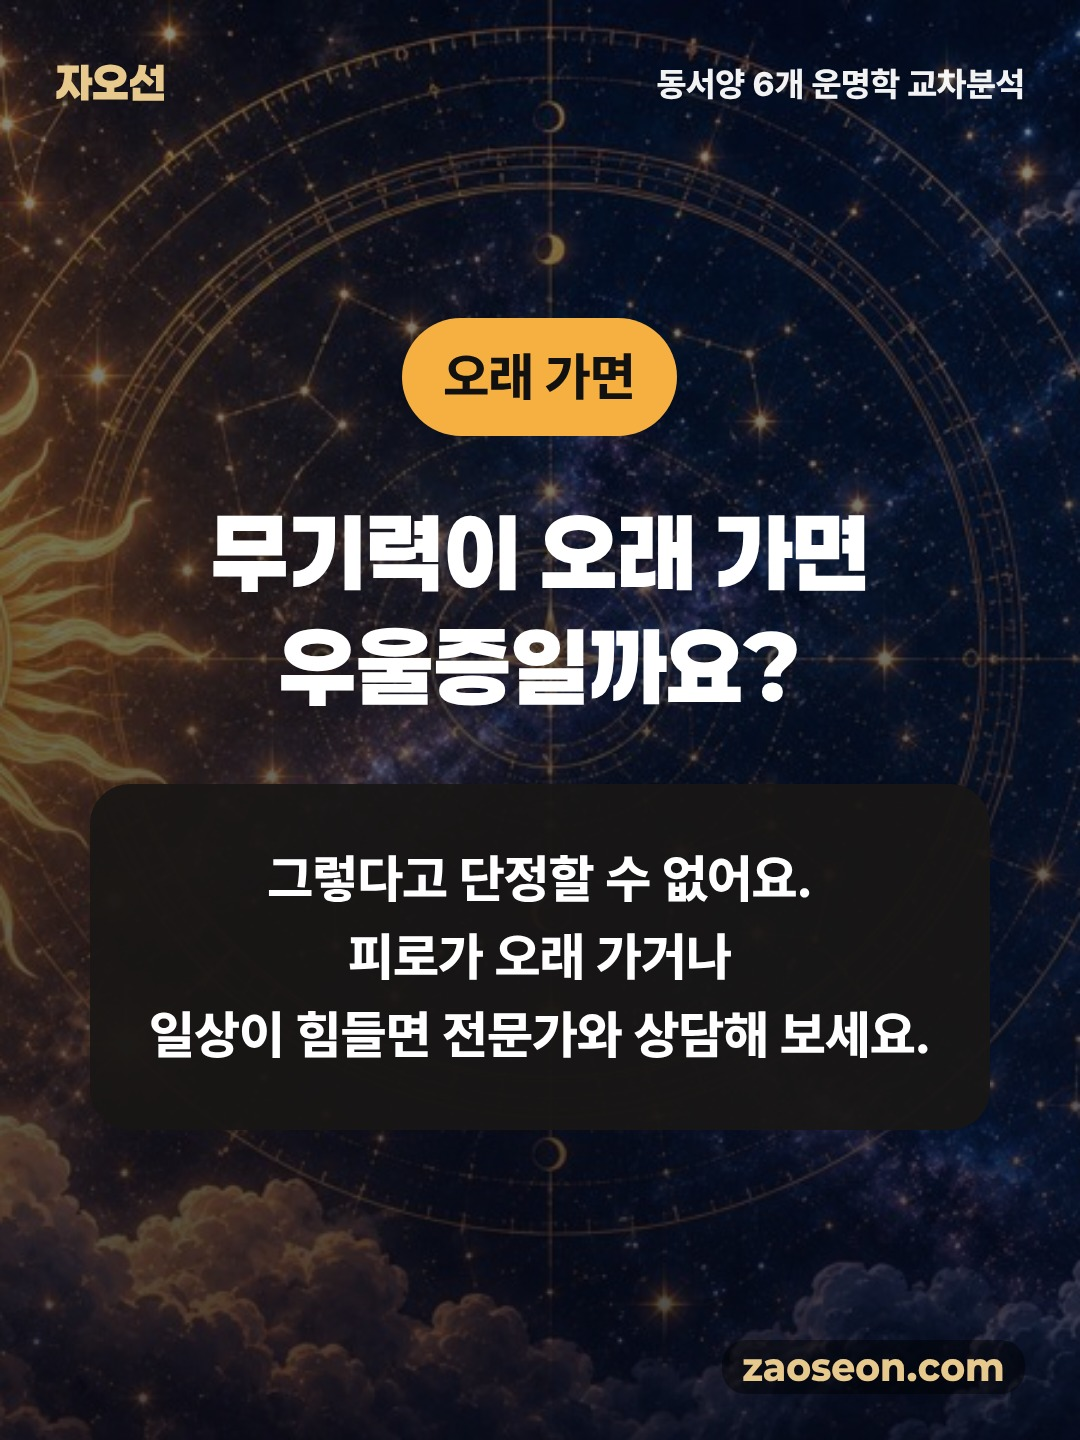
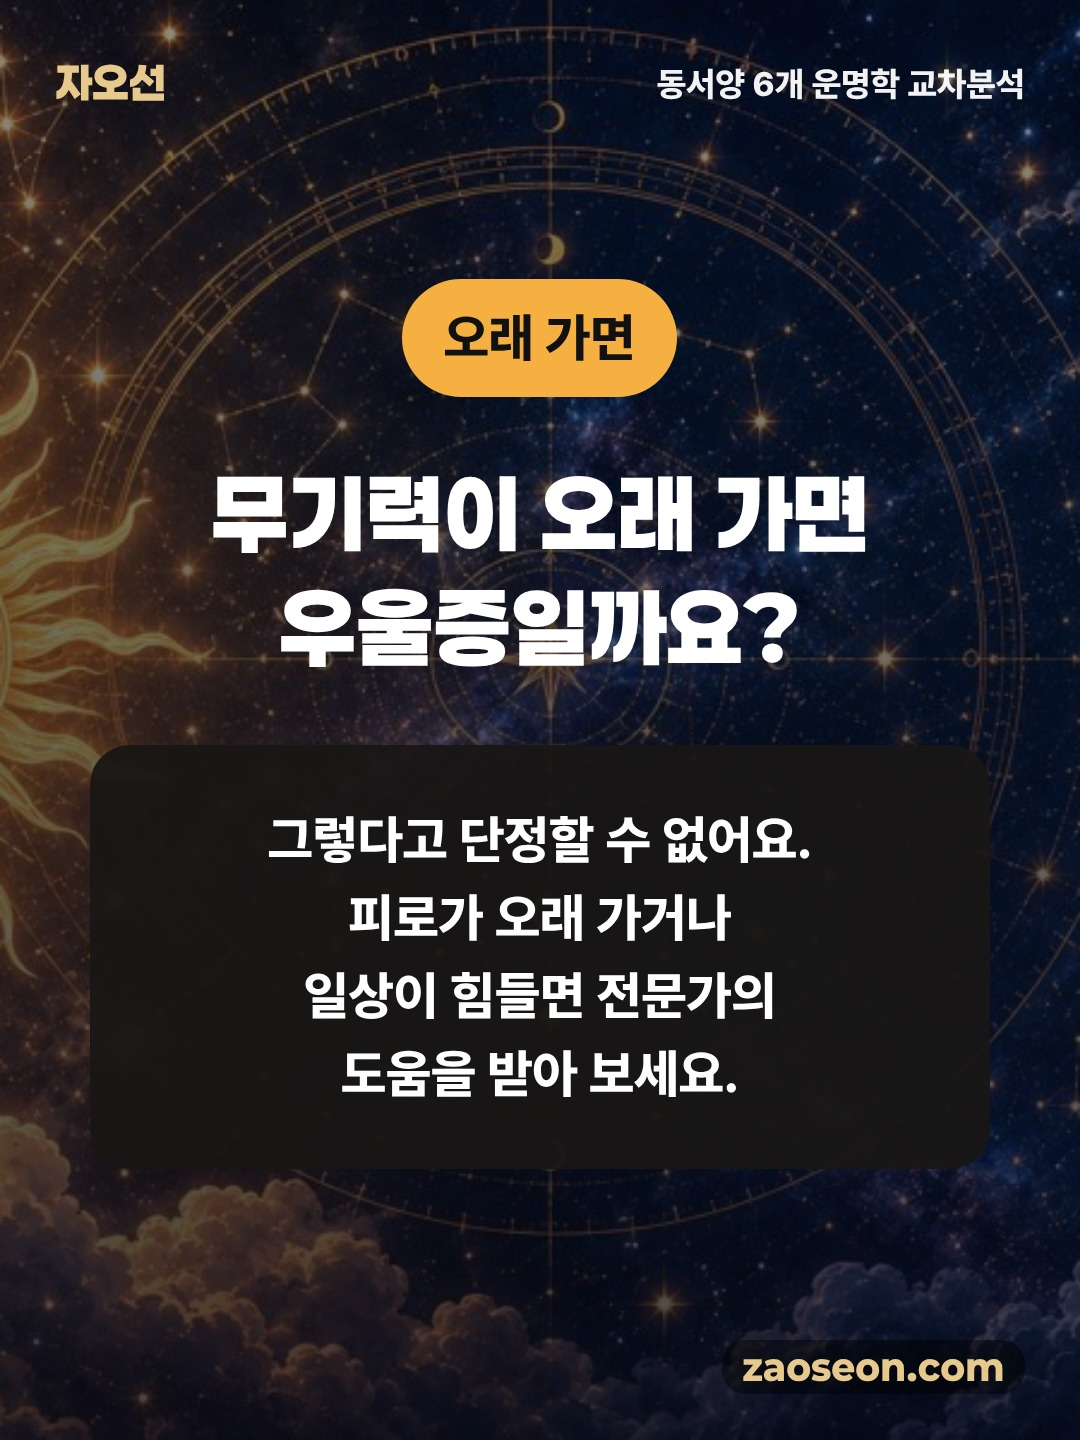
10/30 밤 카드 5번: '전문가와 상담해 보세요' -> '전문가의 도움을 받아 보세요' 다시 렌더
Claude-Session: https://claude.ai/code/session_01JQEc3kdPmogJh4yF5KQxQ1

Changed region(s): [[0.1222, 0.1875, 0.8556, 0.7812], [0.7333, 0.7812, 0.9167, 0.8125], [0.0611, 0.5, 0.1528, 0.5625]]

diff --git a/content/topic_sets_night7.py b/content/topic_sets_night7.py
@@ -57,7 +57,7 @@ SETS = {
    [("방전의 모양은\n세 가지예요", "불은 확 꺼지고\n물은 마음이 소진되고\n흙은 몸이 무거워져요."),
     ("모양대로\n충전해요", "확 꺼지면 짧은 휴식,\n마음이 소진되면 혼자 있는 시간,\n몸이 무거우면 식사와 잠이에요."),
     ("퇴근 뒤 방전은\n열심히 쓴 흔적이에요", "사주는 타고난 방식을,\n별자리는 성향의 방향을 말해요.\n그래서 쉬어도 안 풀리는 피로가 있어요."),
-    ("무기력이 오래 가면\n우울증일까요?", "그렇다고 단정할 수 없어요.\n피로가 오래 가거나\n일상이 힘들면 전문가와 상담해 보세요.")],
+    ("무기력이 오래 가면\n우울증일까요?", "그렇다고 단정할 수 없어요.\n피로가 오래 가거나\n일상이 힘들면 전문가의 도움을 받아 보세요.")],
    ("퇴근 뒤 30분은\n아무것도 안 해요", "퇴근 뒤 30분은\n아무것도 하지 않는 시간으로\n정해 보세요."),
    "나는 어느 쪽에\n*가까운가요*?", "월요일이 무거운 사람 편", {"cover": "C3", "advice": "A1", "cta": "T1"}, "2026-10-30T19:00", ["사주", "별자리"]),
  # 10/31 정월의 핼러윈 질문(짝 원고 n46 '웃는 얼굴 뒤에 진짜 마음을 숨기는 사람의 공통점', 낱말 겹침 84%). 실제 인스타 예약 10/31 21:00(id 387605862), 캡션에 오늘 밤 자정 마감 광고 문구가 있어 그 부분은 바꾸지 않는다. 가면은 마음이 무거운 소재(R24)라 트렌디 표현 없음.
